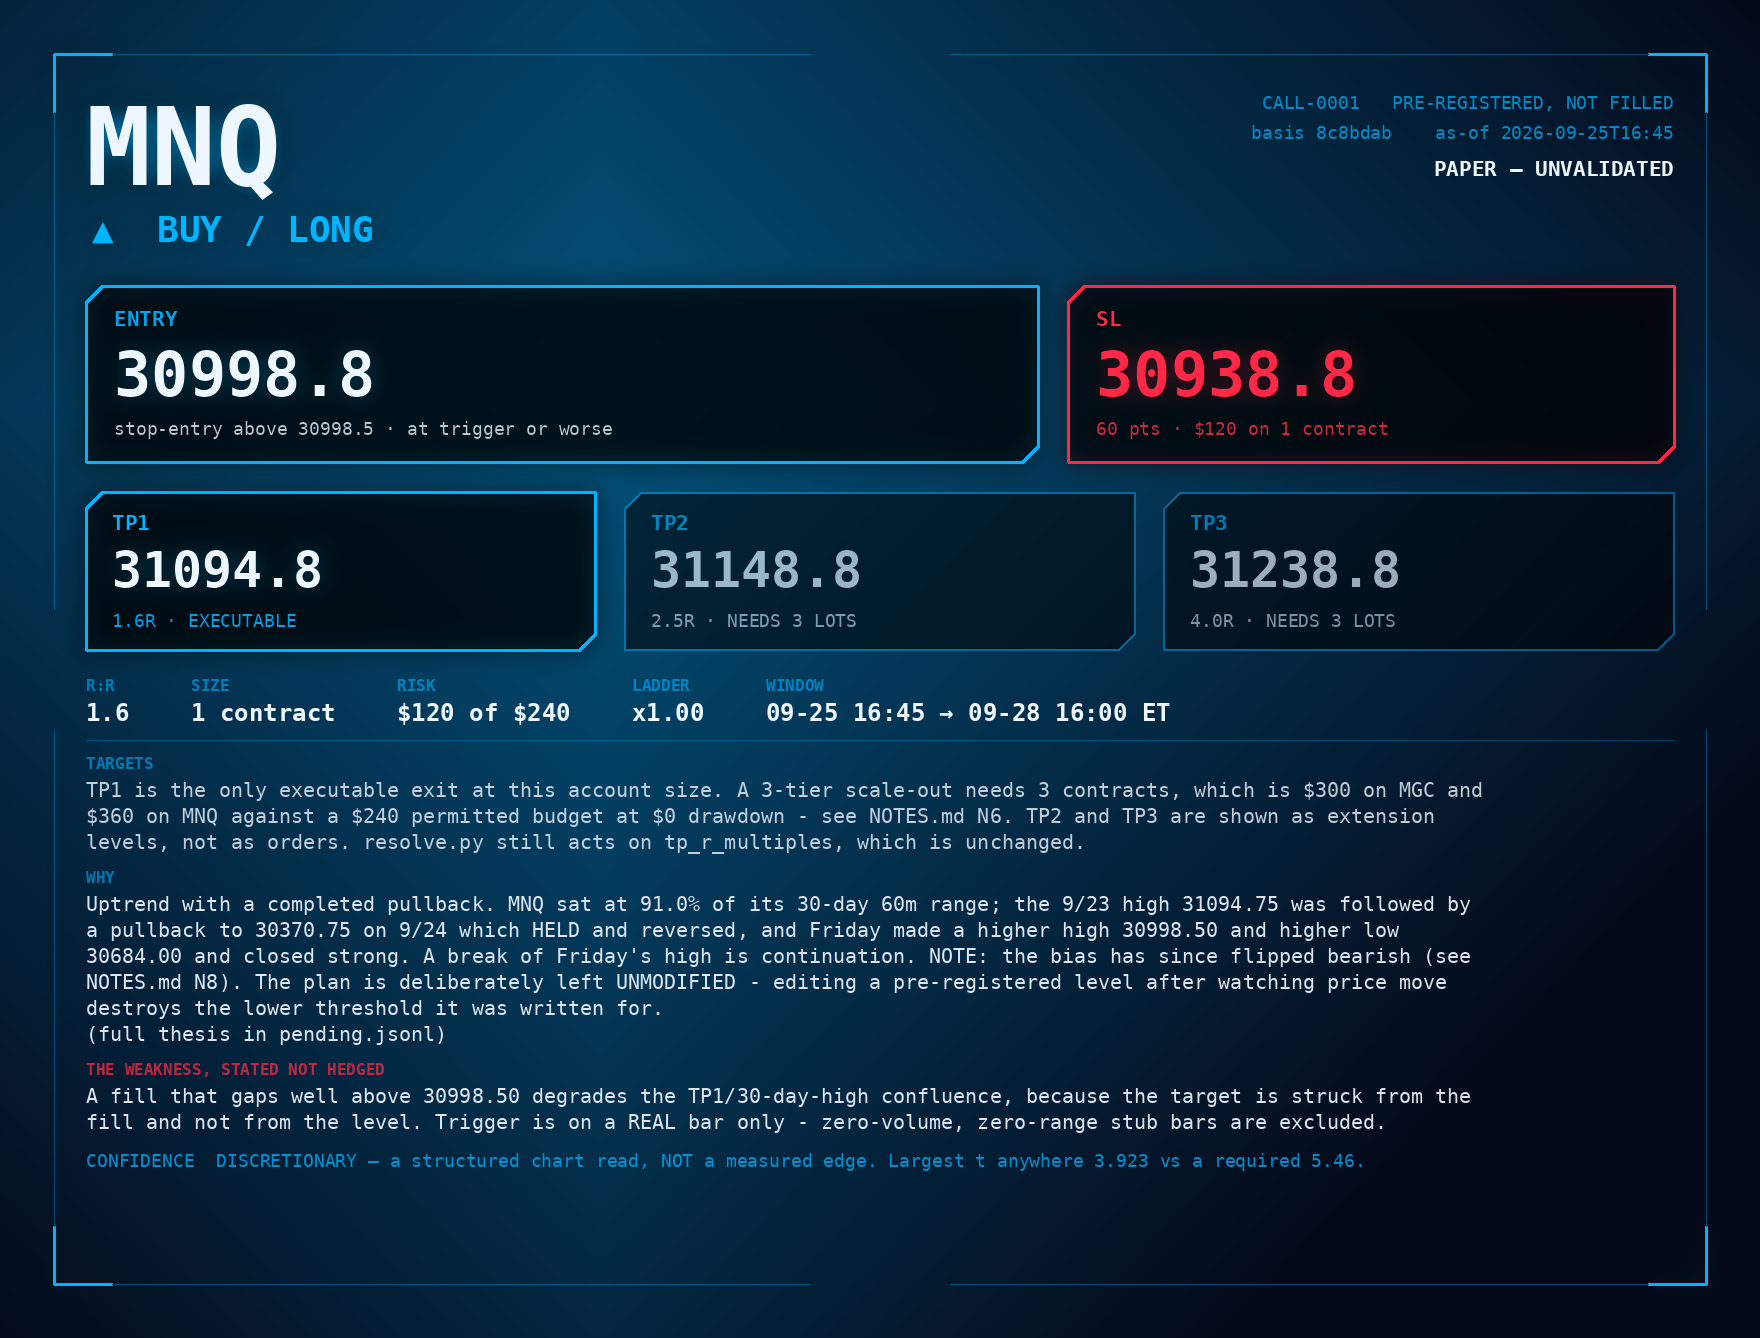
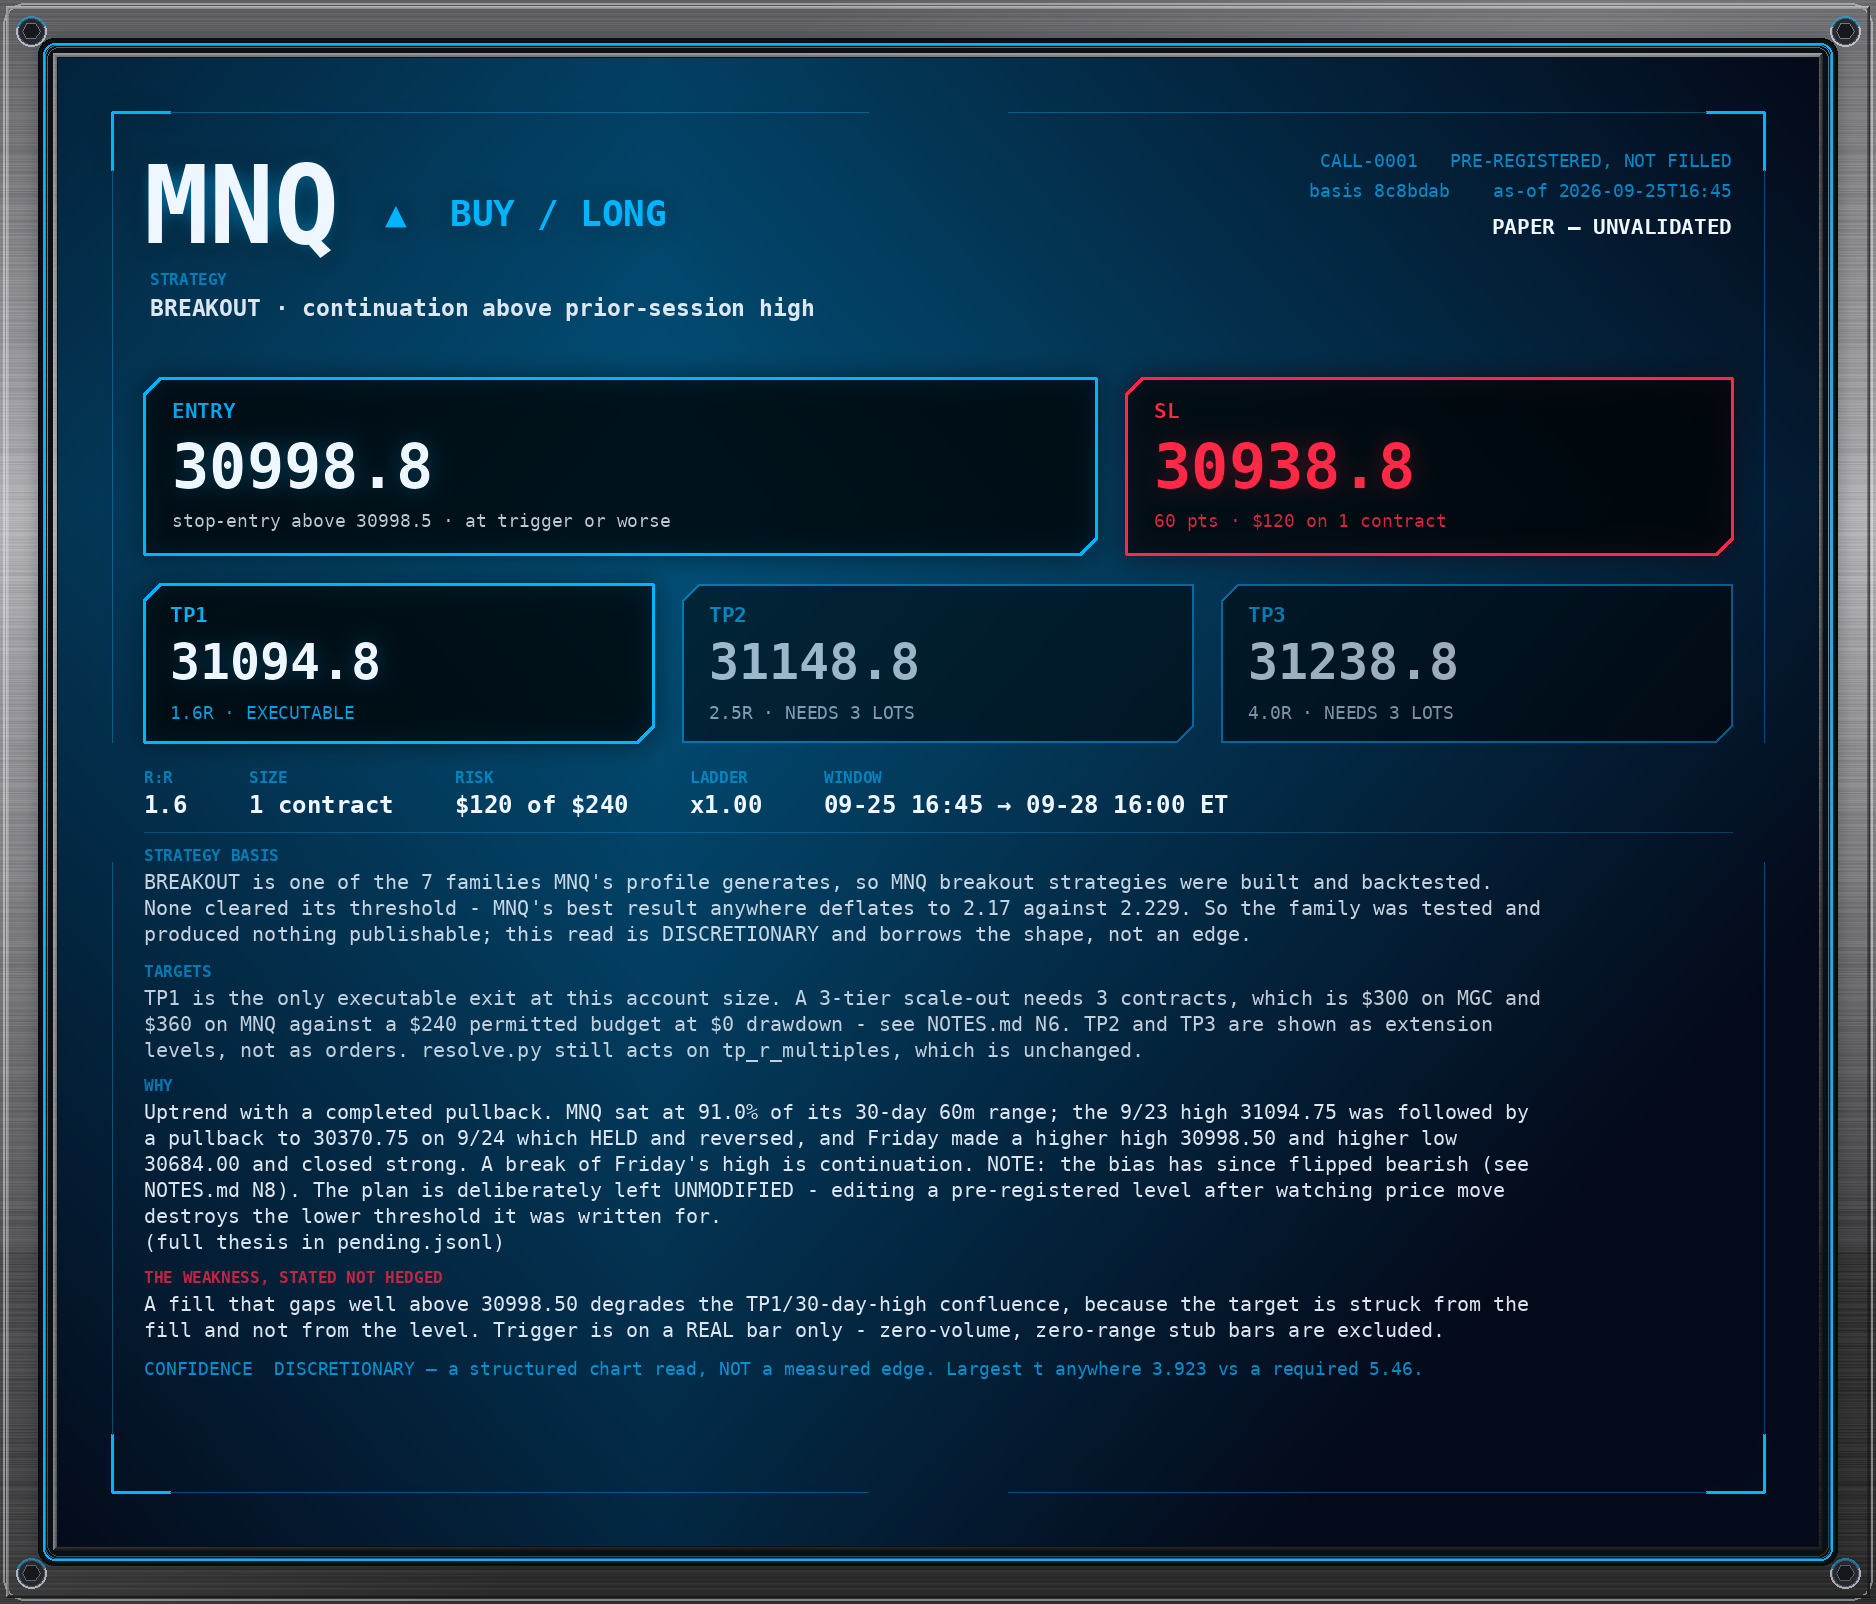
CALL desk: machined bezel, and the card now names its strategy - including when untested
Border is a brushed-metal chassis: deterministic tone ramp with horizontal
brush striations and a diagonal sheen, bevelled edges catching light top-left
and falling to shadow bottom-right, a recessed channel cut into the metal with
the laser running inside it under a gaussian glow, and hex-socket fasteners at
the corners whose rims catch the laser. Seeded, so a card renders identically
on every run and can be compared against the one that was sent.

Symbol and direction now share a baseline, with the strategy named beneath.

The strategy line is the part that matters. STRATEGY_CATALOGUE.md establishes
that a family absent from a symbol's profile was never generated, never
backtested and appears in no ranking - not tried and beaten, not tried at all.
Both plans are structurally BREAKOUT, and the symbols differ:

  MNQ generates BREAKOUT, so MNQ breakout strategies were built and measured,
  and none cleared its threshold.

  MGC EXCLUDES BREAKOUT. Zero MGC breakout strategies have ever existed here.
  profiles.py's recorded reason - "compression-to-expansion at intraday scale;
  on a 23-hour product this mostly fires on session handoffs" - is close to a
  description of CALL-0002 itself.

That disclosure now sits on the face of the card rather than in my notes,
because a confident layout would otherwise imply a pedigree the setup does not
have. The absence is unknown, not licence.

Claude-Session: https://claude.ai/code/session_01EE6PFk7fGa2tM4KP6dpfWD

Changed region(s): [[0.0, 0.0, 1.0, 1.0], [0.3125, 0.1226, 0.375, 0.1532], [0.2188, 0.1226, 0.2812, 0.1532]]

diff --git a/workspace/paper/CALL/card_png.py b/workspace/paper/CALL/card_png.py
@@ -41,6 +41,62 @@ RED = (255, 40, 70)
 WHITE = (238, 246, 255)
 
 
+# ---------------------------------------------------------------- metal chassis
+
+FRAME = 58          # width of the machined bezel around the card
+
+
+def brushed_metal(W: int, H: int) -> Image.Image:
+    """A machined bezel: vertical tone ramp, horizontal brush striations, diagonal sheen.
+
+    Deterministic by construction - a fixed seed and pure arithmetic - because a card that
+    renders differently on each run cannot be compared against the one that was sent.
+    """
+    import random
+    rng = random.Random(20260927)
+    img = Image.new("RGB", (W, H))
+    px = img.load()
+    # per-row brush jitter, drawn once and reused across the width
+    jitter = [rng.randint(-9, 9) for _ in range(H)]
+    for y in range(H):
+        fy = y / H
+        # tone ramp: dark at top, bright shoulder at a third, mid below
+        base = 58 + int(120 * (1.0 - abs(fy - 0.33) * 2.1)) if fy < 0.78 else 46 + int(26 * (1 - fy))
+        base = max(28, min(196, base)) + jitter[y]
+        for x in range(0, W, 2):
+            sheen = int(26 * max(0.0, 1.0 - abs((x / W) + fy - 0.85) * 2.4))
+            v = max(18, min(228, base + sheen))
+            c = (v, v, int(v * 1.03) if v < 240 else v)
+            px[x, y] = c
+            if x + 1 < W:
+                px[x + 1, y] = c
+    return img
+
+
+def bevel(d, box, light=(226, 230, 238), dark=(16, 18, 22), w=3):
+    """Top/left catch the light, bottom/right fall into shadow - the cue that reads as
+    'machined edge' rather than 'drawn rectangle'."""
+    x0, y0, x1, y1 = box
+    for i in range(w):
+        d.line([x0 + i, y0 + i, x1 - i, y0 + i], fill=(*light, 150 - i * 34))
+        d.line([x0 + i, y0 + i, x0 + i, y1 - i], fill=(*light, 130 - i * 30))
+        d.line([x0 + i, y1 - i, x1 - i, y1 - i], fill=(*dark, 190 - i * 40))
+        d.line([x1 - i, y0 + i, x1 - i, y1 - i], fill=(*dark, 170 - i * 36))
+
+
+def screw(d, cx, cy, r, las):
+    """Hex-socket fastener with a lit rim - the laser catches the metal."""
+    d.ellipse([cx - r, cy - r, cx + r, cy + r], fill=(74, 78, 86, 255),
+              outline=(210, 216, 226, 190), width=2)
+    d.ellipse([cx - r + 3, cy - r + 3, cx + r - 3, cy + r - 3], fill=(38, 41, 47, 255))
+    k = r - 6
+    pts = [(cx + k * __import__("math").cos(__import__("math").radians(a)),
+            cy + k * __import__("math").sin(__import__("math").radians(a)))
+           for a in range(0, 360, 60)]
+    d.polygon(pts, fill=(22, 24, 28, 255), outline=(120, 126, 136, 160))
+    d.arc([cx - r, cy - r, cx + r, cy + r], 200, 340, fill=(*las, 150), width=2)
+
+
 def blend(a, b, t):
     return tuple(int(round(x + (y - x) * t)) for x, y in zip(a, b))
 
@@ -122,6 +178,7 @@ def render(plan: dict, out: pathlib.Path) -> pathlib.Path:
     fkl = ImageFont.truetype(MONO_B, 16)
     fbody = ImageFont.truetype(MONO, 20)
     fmeta = ImageFont.truetype(MONO, 18)
+    fsub2 = ImageFont.truetype(MONO_B, 23)
 
     def trim(text, width, maxl):
         import re
@@ -142,8 +199,9 @@ def render(plan: dict, out: pathlib.Path) -> pathlib.Path:
     weak = trim(plan.get("invalidation", ""), 116, 3)
 
     W = 1760
-    H = 1130 + (len(why) + len(weak)) * 26
+    H = 1130 + (len(why) + len(weak)) * 26 + 150   # strategy header + basis block
     img = backdrop(W, H, side).convert("RGBA")
+    # content is composed at interior size, then mounted in the bezel below
     glow = Image.new("RGBA", (W, H), (0, 0, 0, 0))
     gd = ImageDraw.Draw(glow)
     ov = Image.new("RGBA", (W, H), (0, 0, 0, 0))
@@ -154,14 +212,19 @@ def render(plan: dict, out: pathlib.Path) -> pathlib.Path:
     hud_frame(gd, frame, las, width=4)
     hud_frame(d, frame, las, width=3)
 
-    # header
+    # header: symbol and direction on ONE baseline, strategy beneath
     gd.text((86, 84), plan["symbol"], font=fsym, fill=(*las, 210))
     d.text((86, 84), plan["symbol"], font=fsym, fill=WHITE)
-    glyph = "▲" if side == "LONG" else "▼"
-    d.text((92, 208), f"{glyph}  {'BUY / LONG' if side=='LONG' else 'SELL / SHORT'}",
-           font=fdir, fill=(*las, 255))
-    gd.text((92, 208), f"{glyph}  {'BUY / LONG' if side=='LONG' else 'SELL / SHORT'}",
-            font=fdir, fill=(*las, 180))
+    symw = d.textlength(plan["symbol"], font=fsym)
+    glyph = "\u25b2" if side == "LONG" else "\u25bc"
+    dirtxt = f"{glyph}  {'BUY / LONG' if side == 'LONG' else 'SELL / SHORT'}"
+    dx, dy = 86 + symw + 46, 84 + 50          # optically centred on the symbol's cap height
+    d.text((dx, dy), dirtxt, font=fdir, fill=(*las, 255))
+    gd.text((dx, dy), dirtxt, font=fdir, fill=(*las, 185))
+    strat = plan.get("strategy", "")
+    if strat:
+        d.text((92, 212), "STRATEGY", font=fkl, fill=(*las, 150))
+        d.text((92, 236), strat, font=fsub2, fill=(*WHITE, 234))
 
     meta = [f"{plan['call_id']}   PRE-REGISTERED, NOT FILLED",
             f"basis {plan.get('basis','?')}    as-of {plan.get('as_of_at_creation','?')[:16]}"]
@@ -173,7 +236,7 @@ def render(plan: dict, out: pathlib.Path) -> pathlib.Path:
     d.text((W - 86 - d.textlength(pu, font=flab), yy + 4), pu, font=flab, fill=WHITE)
 
     # ---- row 1: ENTRY (laser) | SL (RED)
-    y0, ph = 286, 176
+    y0, ph = 320, 176
     gapx, inner = 30, W - 2 * (M + 32)
     ew = int(inner * 0.60)
     sw = inner - ew - gapx
@@ -229,6 +292,14 @@ def render(plan: dict, out: pathlib.Path) -> pathlib.Path:
     # ---- reasoning
     by = sy + 78
     d.line([M + 32, by - 14, W - M - 32, by - 14], fill=(*las, 70), width=1)
+    sb = plan.get("strategy_basis", "")
+    if sb:
+        d.text((M + 32, by), "STRATEGY BASIS", font=fkl, fill=(*las, 150))
+        by += 24
+        for ln in textwrap.wrap(sb, 116)[:4]:
+            d.text((M + 32, by), ln, font=fbody, fill=(*WHITE, 212))
+            by += 26
+        by += 14
     d.text((M + 32, by), "TARGETS", font=fkl, fill=(*las, 150))
     by += 24
     for ln in textwrap.wrap(plan.get("display_targets_note", ""), 116)[:3]:
@@ -253,9 +324,47 @@ def render(plan: dict, out: pathlib.Path) -> pathlib.Path:
            font=fmeta, fill=(*las, 195))
 
     img = Image.alpha_composite(img, glow.filter(ImageFilter.GaussianBlur(11)))
-    img = Image.alpha_composite(img, ov).convert("RGB")
+    interior = Image.alpha_composite(img, ov)
+
+    # ---- mount the card in a machined bezel with a recessed laser channel
+    CW, CH = W + FRAME * 2, H + FRAME * 2
+    chassis = brushed_metal(CW, CH).convert("RGBA")
+    cg = Image.new("RGBA", (CW, CH), (0, 0, 0, 0))
+    cgd = ImageDraw.Draw(cg)
+    co = Image.new("RGBA", (CW, CH), (0, 0, 0, 0))
+    cd = ImageDraw.Draw(co)
+
+    # outer edge of the chassis
+    cd.rounded_rectangle([3, 3, CW - 4, CH - 4], radius=22,
+                         outline=(232, 236, 244, 120), width=2)
+    bevel(cd, (6, 6, CW - 7, CH - 7))
+
+    # recessed channel, cut into the metal, with the laser running in it
+    ch = FRAME - 20
+    cd.rounded_rectangle([ch, ch, CW - ch - 1, CH - ch - 1], radius=16,
+                         fill=(14, 15, 18, 255), outline=(10, 11, 13, 255), width=2)
+    for i, a in ((0, 255), (2, 120), (4, 55)):
+        cd.rounded_rectangle([ch + 5 + i, ch + 5 + i, CW - ch - 6 - i, CH - ch - 6 - i],
+                             radius=12, outline=(*las, a), width=2 if i == 0 else 1)
+    cgd.rounded_rectangle([ch + 5, ch + 5, CW - ch - 6, CH - ch - 6], radius=12,
+                          outline=(*las, 255), width=5)
+
+    # inner lip where the bezel meets the card face
+    bevel(cd, (FRAME - 5, FRAME - 5, CW - FRAME + 4, CH - FRAME + 4),
+          light=(200, 206, 216), dark=(8, 9, 11), w=4)
+
+    # fasteners at the four corners
+    for sx2, sy2 in ((FRAME // 2 + 2, FRAME // 2 + 2), (CW - FRAME // 2 - 2, FRAME // 2 + 2),
+                     (FRAME // 2 + 2, CH - FRAME // 2 - 2),
+                     (CW - FRAME // 2 - 2, CH - FRAME // 2 - 2)):
+        screw(cd, sx2, sy2, 15, las)
+
+    chassis = Image.alpha_composite(chassis, cg.filter(ImageFilter.GaussianBlur(9)))
+    chassis = Image.alpha_composite(chassis, co)
+    chassis.paste(interior, (FRAME, FRAME), interior)
+    chassis = chassis.convert("RGB")
     out.parent.mkdir(parents=True, exist_ok=True)
-    img.save(out)
+    chassis.save(out)
     return out
 
 

diff --git a/workspace/paper/CALL/CHECK_PROCEDURE.md b/workspace/paper/CALL/CHECK_PROCEDURE.md
@@ -328,6 +328,23 @@ which colour means which direction and differ only in intensity. **Never introdu
 something the terminal palette does not**; red is used only for the stop, never for a direction,
 because orange already means SHORT.
 
+**Name the strategy on the card, and say whether that family was ever tested on that symbol.**
+Each plan carries `strategy` (shown under the symbol) and `strategy_basis` (a block lower down).
+This is not decoration — `STRATEGY_CATALOGUE.md` §1 establishes that a family absent from a
+symbol's profile was **never generated, never backtested and appears in no ranking**, so it was not
+tried and beaten, it was not tried at all. Both current plans are structurally BREAKOUT, and the
+two symbols differ:
+
+- **MNQ** generates BREAKOUT (1 of its 7 families), so MNQ breakout strategies were built and
+  measured — and none cleared its threshold.
+- **MGC EXCLUDES BREAKOUT.** Zero MGC breakout strategies have ever existed in this programme.
+  `profiles.py`'s recorded reason is *"compression-to-expansion at intraday scale; on a 23-hour
+  product this mostly fires on session handoffs"* — which is close to what `CALL-0002` is.
+
+**Treat that absence as unknown, never as licence.** An untested family is not a clean slate with
+better odds; it is a hole in the evidence, and the card must say so rather than let a confident
+layout imply otherwise.
+
 **TP1/TP2/TP3: show three, execute one, and say which.** The card reads `display_targets`. Only
 **TP1 is executable** at this account size — a three-tier scale-out needs three contracts, which is
 **$300 on MGC and $360 on MNQ against a $240 permitted budget** at zero drawdown (N6). TP2 and TP3
